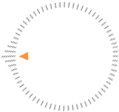
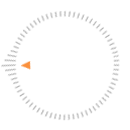
添加个人积分页

Changed region(s): [[0.0, 0.0, 1.0, 0.9911], [0.9328, 0.5357, 1.0, 0.5893]]

diff --git a/src/js/personal/MyIntegral.js b/src/js/personal/MyIntegral.js
@@ -16,7 +16,7 @@ import {
 } from 'react-native';
 
 import Urls from '../public/apiUrl';
-import { Size, Color, PX } from '../public/globalStyle';
+import { Size, Color, PX, pixel, FontSize } from '../public/globalStyle';
 import AppHead from '../public/AppHead';
 import Lang, {str_replace} from '../public/language';
 import BtnIcon from '../public/BtnIcon';
@@ -25,6 +25,7 @@ export default class MyIntegral extends Component {
     constructor(props) {
         super(props);
         this.state = {
+            point: 800,
             rotation: new Animated.Value(0),
         };
     }
@@ -37,19 +38,20 @@ export default class MyIntegral extends Component {
         this.state.rotation.setValue(0);
         Animated.timing(this.state.rotation, {
             toValue: 1,
-            duration: 1500,
-        }).start(this.startAnimation);
+            duration: 800,
+        }).start();
 
     };
 
     render() {
+        let { navigation } = this.props;
         return (
             <ScrollView contentContainerStyle={styles.container}>
                 <AppHead
                     occupy={true}
                     title={Lang.cn.personalIntegral}
                     left={(<BtnIcon width={PX.headIconSize} press={()=>{
-                         this.props.navigation.goBack(null);
+                         navigation.goBack(null);
                     }} src={require("../../images/back.png")} />)}
                 />
                 <View style={styles.topBox}>
@@ -63,16 +65,36 @@ export default class MyIntegral extends Component {
                                     transform: [{
                                         rotate: this.state.rotation.interpolate({
                                             inputRange: [0, 1],
-                                            outputRange: ['0deg', '360deg']
+                                            outputRange: ['0deg', '150deg']
                                         })
                                     }]
                                 }]} 
                                 source={require('../../images/personal/integral_bg1.png')}
                                 resizeMode={Image.resizeMode.contain}
                             />
+                            <View style={styles.integralNumberView1}>
+                                <Text style={styles.integralNumberText1}>{this.state.point}</Text>
+                            </View>
                             <Image style={styles.integral_bg2} source={require('../../images/personal/integral_bg2.png')} />
                         </View>
+                        <View style={styles.topRightView}>
+                            <Text style={styles.topRightText1}>{Lang.cn.untilToday}</Text>
+                            <Text style={styles.topRightText2}>{Lang.cn.saveYou}</Text>
+                            <Text style={styles.topRightText3}>8000元</Text>
+                        </View>
                     </Image>
+                    <View style={styles.integralNumberView2}>
+                        <Text style={styles.topTxt}>{Lang.cn.youHave}</Text>
+                        <Text style={styles.integralNumberText2}>{this.state.point}</Text>
+                        <Text style={styles.topTxt}>{Lang.cn.point}</Text>
+                    </View>
+                    <View style={styles.footGroupView}>
+                        <Image style={styles.footGroup} source={require('../../images/personal/group.png')} />
+                    </View>
+                </View>
+                <View style={styles.ruleBox}>
+                    <Text style={styles.ruleTextLeft}>{Lang.cn.integralDetailed}</Text>
+                    <Text style={styles.ruleTextRight} onPress={()=>navigation.navigate('IntegralRule')}>{Lang.cn.integralRule}</Text>
                 </View>
             </ScrollView>
         );
@@ -86,6 +108,8 @@ const styles = StyleSheet.create({
     topBox: {
         backgroundColor: '#fff',
         marginTop: 10,
+        paddingBottom: 30,
+        marginBottom: 10,
     },
     integral_top_bg: {
         width: Size.width,
@@ -94,19 +118,100 @@ const styles = StyleSheet.create({
     },
     integral_bg_box: {
         marginTop: 40,
-        width: 100,
-        height: 100,
-        marginLeft: -10,
+        width: PX.integralDiskSize,
+        height: PX.integralDiskSize,
     },
     integral_bg1: {
-        width: 100,
-        height: 100,
+        width: PX.integralDiskSize,
+        height: PX.integralDiskSize,
+    },
+    integralNumberView1: {
+        position: 'absolute',
+        width: PX.integralDiskSize,
+        height: PX.integralDiskSize / 2,
+        left: 0,
+        top: 0,
+        zIndex: 3,
+        alignItems: 'center',
+        justifyContent: 'flex-end',
+    },
+    integralNumberText1: {
+        color: Color.mainColor,
+        fontSize: FontSize.integralNumber,
     },
     integral_bg2: {
         position: 'absolute',
-        width: 90,
-        height: 45,
-        right: 0,
+        width: PX.integralDiskSize,
+        height: PX.integralDiskSize / 2,
+        left: 0,
         bottom: 0,
-    }
+        zIndex: 3,
+    },
+    integralNumberView2: {
+        height: 30,
+        paddingLeft: Size.width * 0.2,
+        flexDirection: 'row',
+        alignItems: 'center',
+    },
+    topTxt: {
+        color: Color.lightBack,
+        fontSize: 16,
+    },
+    integralNumberText2: {
+        fontSize: FontSize.integralNumber,
+        color: Color.steelBlue,
+        padding: 2,
+    },
+    topRightView: {
+        alignItems: 'center',
+        justifyContent: 'center',
+        position: 'absolute',
+        width: Size.width / 2 - PX.integralDiskSize / 2,
+        right: 0,
+        top: 70,
+    },
+    topRightText1: {
+        color: Color.gainsboro,
+        fontSize: 12,
+        padding: 2,
+    },
+    topRightText2: {
+        color: Color.lightBack,
+        fontSize: 14,
+        padding: 2,
+    },
+    topRightText3: {
+        color: Color.red,
+        fontSize: 16,
+        padding: 2,
+    },
+    footGroupView: {
+        alignItems: 'flex-end',
+    },
+    footGroup: {
+        width: 147,
+        height: 38,
+        marginTop: 10,
+        marginRight: 15
+    },
+    ruleBox: {
+        height: 50,
+        flexDirection: 'row',
+        alignItems: 'center',
+        justifyContent: 'space-between',
+        paddingLeft: 15,
+        paddingRight: 15,
+        backgroundColor: '#fff',
+        borderWidth: pixel,
+        borderColor: Color.floralWhite,
+    },
+    ruleTextLeft: {
+        color: Color.lightBack,
+        fontSize: 16,
+    },
+    ruleTextRight: {
+        color: Color.gainsboro,
+        fontSize: 14,
+        padding: 3,
+    },
 });

diff --git a/src/js/personal/IntegralRule.js b/src/js/personal/IntegralRule.js
@@ -1,0 +1,82 @@
+/**
+ * 个人中心 - 我的积分
+ * @auther linzeyong
+ * @date   2017.04.26
+ */
+
+import React , { Component } from 'react';
+import {
+    StyleSheet,
+    View,
+    Text,
+    Button,
+    Image,
+    ScrollView,
+    Animated,
+} from 'react-native';
+
+import Urls from '../public/apiUrl';
+import { Size, Color, PX, pixel, FontSize } from '../public/globalStyle';
+import AppHead from '../public/AppHead';
+import Lang, {Rule, str_replace} from '../public/language';
+import BtnIcon from '../public/BtnIcon';
+
+export default class MyIntegral extends Component {
+    constructor(props) {
+        super(props);
+        this.state = {
+        };
+    }
+
+    render() {
+        let { navigation } = this.props;
+        return (
+            <ScrollView contentContainerStyle={styles.container}>
+                <AppHead
+                    occupy={true}
+                    title={Lang.cn.integralRule}
+                    left={(<BtnIcon width={PX.headIconSize} press={()=>{
+                         navigation.goBack(null);
+                    }} src={require("../../images/back.png")} />)}
+                />
+                <View style={styles.topBox}>
+                    {Rule.map((item, index) => this.textBlock(item, index))}
+                </View>
+            </ScrollView>
+        );
+    }
+
+    textBlock = (item, index) => {
+        let title = item.title || '';
+        let content = item.content || '';
+        return (
+            <View key={index} style={styles.paragraph}>
+                <Text style={styles.titleStyle}>{title}</Text>
+                <Text style={styles.contentStyle}>{content}</Text>
+            </View>
+        );
+    };
+}
+
+const styles = StyleSheet.create({
+    container: {
+        backgroundColor: Color.lightGrey,
+        paddingBottom: 10,
+    },
+    paragraph: {
+        padding: 15,
+        backgroundColor: '#fff',
+        marginTop: 10,
+    },
+    titleStyle: {
+        fontSize: 15,
+        color: Color.mainColor,
+        marginBottom: 15,
+    },
+    contentStyle: {
+        fontSize: 12,
+        lineHeight: 22,
+        color: Color.lightBack,
+        paddingBottom: 5,
+    },
+});

diff --git a/src/js/public/language.js b/src/js/public/language.js
@@ -45,8 +45,28 @@ const language = {
         contactUs: '联系我们',
         helpNote: '帮助说明',
         viewAll: '查看全部',
+        youHave: '您还有',
+        point: '点',
+        untilToday: '到今天为止',
+        saveYou: '已为您节省了',
+        integralDetailed: '积分明细',
+        integralRule: '积分规则',
     },
 };
+
+/**
+ * 积分规则 包含标题和内容
+ */
+export const Rule = [{
+    title: '境淘积分有什么用？',
+    content: '境淘积分可以用来抵扣购物时的订单金额，1积分=1元钱，单次使用积分没有上限呦！O(∩_∩)O',
+}, {
+    title: '怎么样获取境淘积分',
+    content: '1.境淘APP购物后，系统会根据订单金额返还一定的积分作为返利。\n2.在境淘APP办理浦发银行信用卡并绑定您的境淘账号后，会获得80个积分的奖励3.在境淘APP内购物时使用浦发信用卡进行支付后，会获得80个积分的奖励（只限一次）',
+}, {
+    title: '其它规则',
+    content: '1.当您使用积分抵扣订单金额后，该订单将不赠送积分给您。\n2.积分两年一期，到期即清空所有积分。',
+}];
 
 /**
  * 替换字符串

diff --git a/src/js/home/HeadBox.js b/src/js/home/HeadBox.js
@@ -60,8 +60,10 @@ export default class HeadBox extends Component {
             <View>
                 <View style={{width: Size.width, height: 100,}}>
                     <Image source={{uri: fimg}} style={styles.firstRowImage}>
-                        <Text style={styles.bigText} numberOfLines={1}>{name}</Text>
-                        <Text style={styles.smlText} numberOfLines={3}>{text}</Text>
+                        <View style={styles.firstRowImageView}>
+                            <Text style={styles.bigText} numberOfLines={1}>{name}</Text>
+                            <Text style={styles.smlText} numberOfLines={3}>{text}</Text>
+                        </View>
                     </Image>
                 </View>
                 <ListView
@@ -119,7 +121,11 @@ var styles = StyleSheet.create({
     firstRowImage: {
         width: Size.width,
         height: 100,
+    },
+    firstRowImageView: {
+        flex: 1,
         padding: 10,
+        backgroundColor: 'rgba(0, 0, 0, 0.3)',
     },
     cityItem: {
         width: itemW,

diff --git a/src/js/index.js b/src/js/index.js
@@ -15,6 +15,7 @@ import {
 import { StackNavigator } from 'react-navigation';
 import TabNavScreen from './tabNav';
 import MyIntegral from './personal/MyIntegral';
+import IntegralRule from './personal/IntegralRule';
 
 import { Color, PX } from './public/globalStyle';
 
@@ -35,12 +36,20 @@ const MyIntegralScreen = ({ navigation }) => (
     <MyNavScren navigation={navigation} NavScreen={MyIntegral} />
 );
 
+//个人中心 - 我的积分 - 积分规则
+const IntegralRuleScreen = ({ navigation }) => (
+    <MyNavScren navigation={navigation} NavScreen={IntegralRule} />
+);
+
 const AppNavigator = StackNavigator({
     TabNav: {
         screen: TabNavScreen,
     },
     MyIntegral: {
         screen: MyIntegralScreen,
+    },
+    IntegralRule: {
+        screen: IntegralRuleScreen,
     },
 }, {
     initialRouteName: 'TabNav',

diff --git a/src/js/public/globalStyle.js b/src/js/public/globalStyle.js
@@ -26,6 +26,7 @@ export const PX = {
     tabIconSize: 26,
     userTopHeight: 160,
     userHeadImgSize: 66,
+    integralDiskSize: 130,
 };
 
 //APP字体大小
@@ -33,6 +34,7 @@ export const FontSize = {
     defaultFontSize: 14,
     headFontSize: 16,
     headFontWeight: '600',
+    integralNumber: 22,
 };
 
 //APP样式颜色
